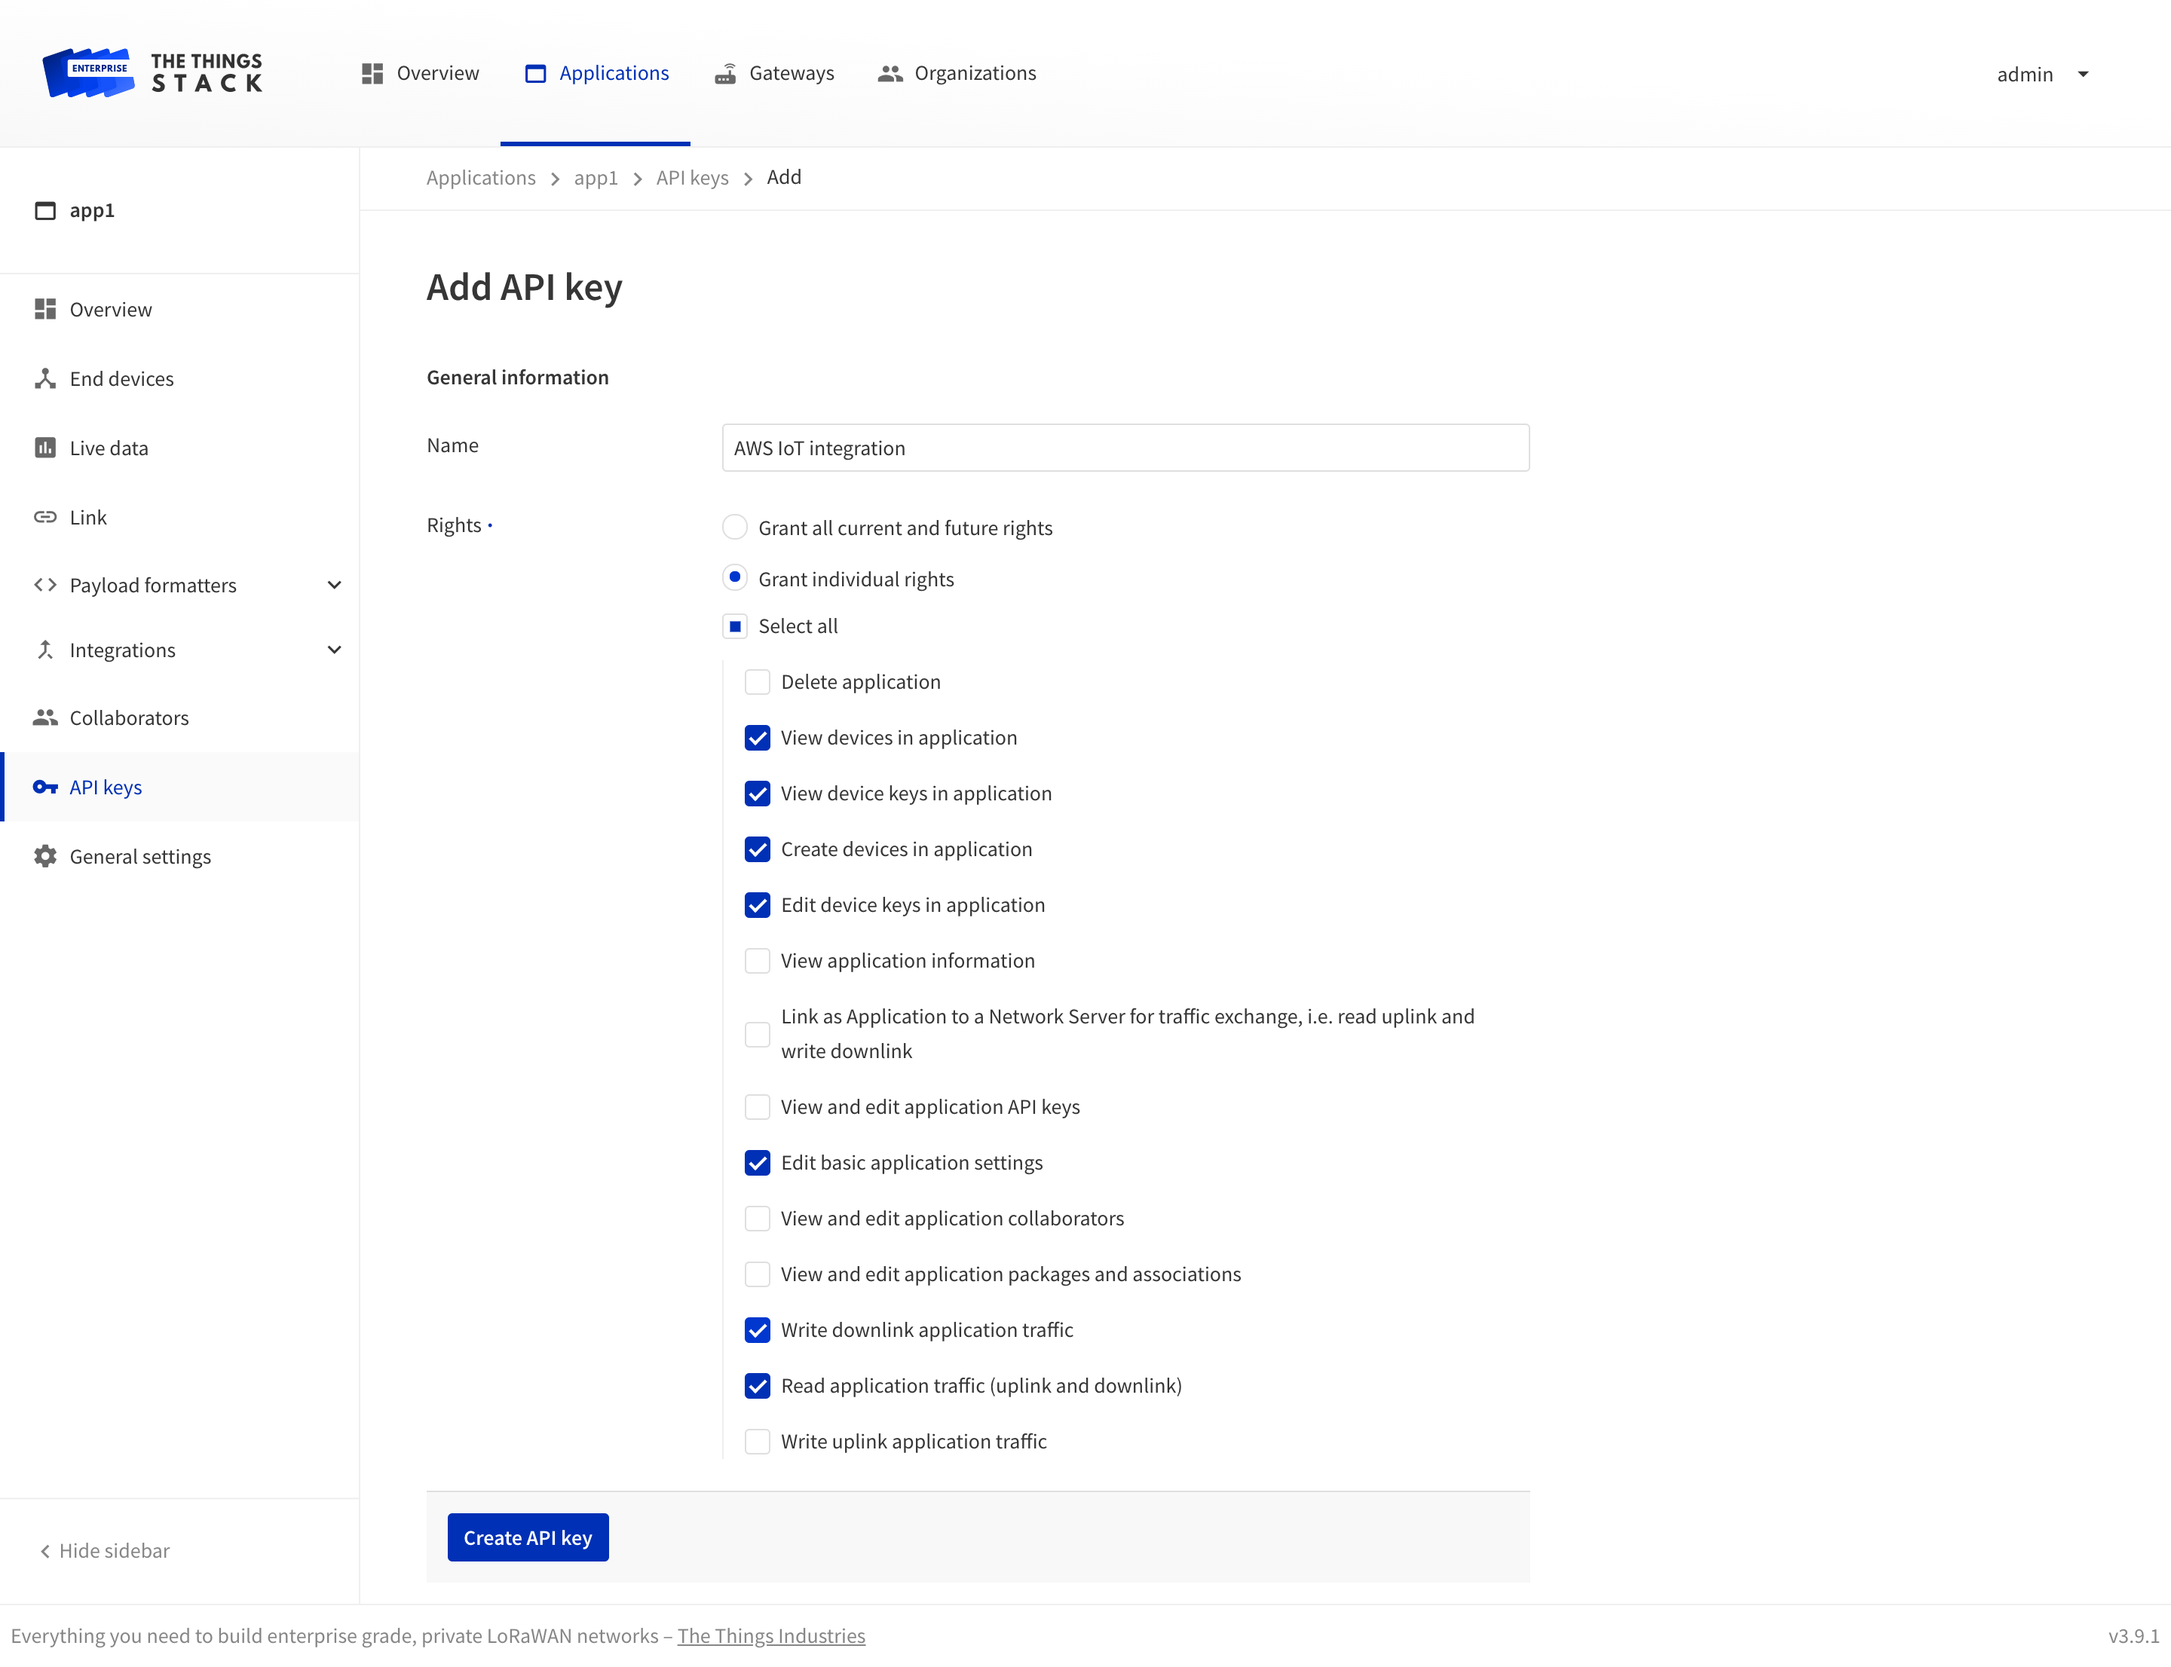
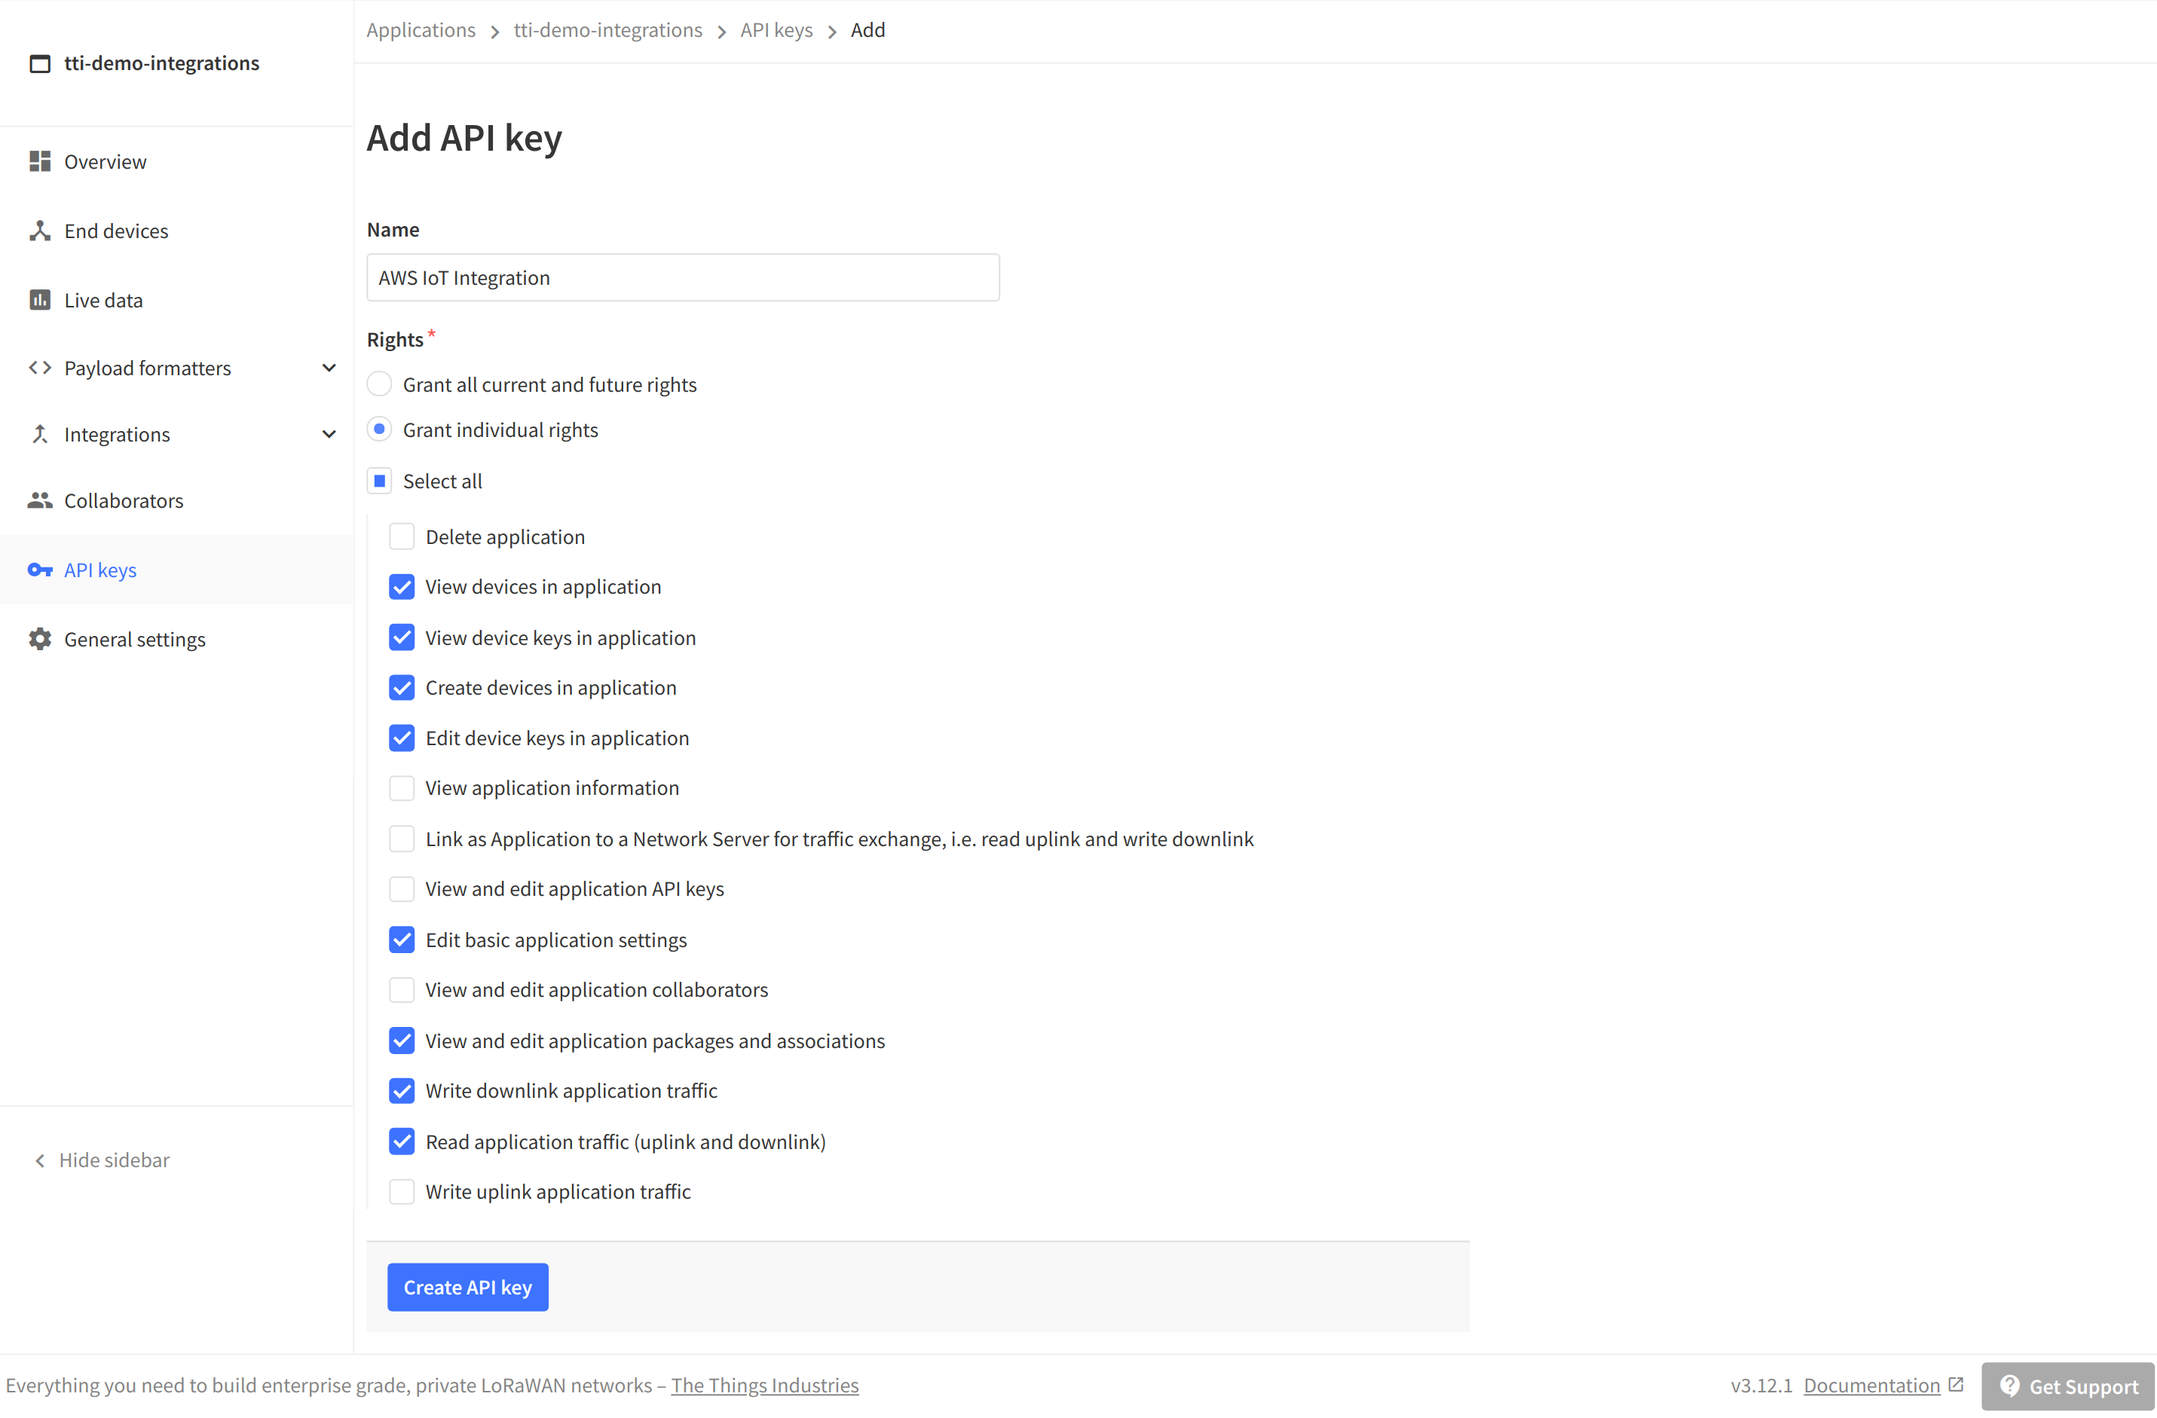
Deploying to gh-pages from  @ 829a9dd522c15b54f0757ae2f60a550bd2c5cdbb 🚀

diff --git a/integrations/cloud-integrations/aws-iot/default/deployment-guide/index.html b/integrations/cloud-integrations/aws-iot/default/deployment-guide/index.html
@@ -302,6 +302,7 @@
 <li>Create devices in application</li>
 <li>Edit device keys in application</li>
 <li>Edit basic application settings</li>
+<li>View and edit application packages and associations</li>
 <li>Write downlink application traffic</li>
 <li>Read application traffic (uplink and downlink)</li>
 </ul>
@@ -607,10 +608,10 @@
         <h3 class="title is-6">About this page</h3>
         <div class="content">
 <p class="is-size-7">
-  Last changed by i3mSuperMan on 09 Jul 2021.
+  Last changed by i3mSuperMan on 15 Jul 2021.
   <br>
-  <a href="https://github.com/TheThingsIndustries/lorawan-stack-docs/commit/9381bc2cd7f1cccbd30585f06ca0042ce561d8a0">
-      doc: Update AWS IoT integration documentation with minor changes (#432)
+  <a href="https://github.com/TheThingsIndustries/lorawan-stack-docs/commit/8fd79f225580edf51576a1dd4cc84848064a812e">
+      doc: Add new API key Right (#461)
     </a>
 </p>
 
